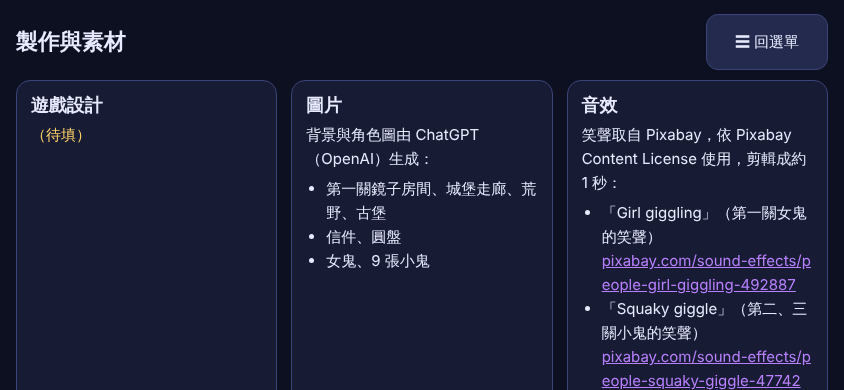
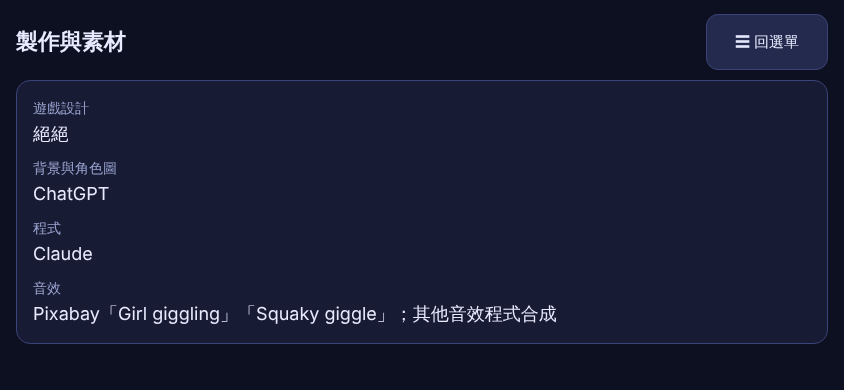
credits: user's final wording, no external links
Claude-Session: https://claude.ai/code/session_01HvGmyWa7LXvU1ABFVyqn8L

diff --git a/prototype/credits.html b/prototype/credits.html
@@ -10,10 +10,8 @@
 <meta name="apple-mobile-web-app-status-bar-style" content="black">
 <link rel="apple-touch-icon" href="assets/icon-180.png">
 <!--
-  製作與素材頁（2026-11-21）：感謝名單與素材出處。
-  - 圖片：使用者 2026-11-21 確認「背景角色通通是 GPT」。
-  - 音效：Pixabay 兩段笑聲（作者名這個環境連不到 pixabay.com 查不到，先只寫標題＋連結，不猜）。
-  - 遊戲設計署名：等使用者決定怎麼寫，先放「（待填）」。
+  製作與素材頁：文字照使用者 2026-11-21 定稿（字少、不放連結）。
+  Pixabay 兩段笑聲的原始網址記在 PROJECT.md，頁面上不放。
 -->
 <style>
   html, body { margin:0; min-height:100%; background:#0d1020; color:#e8ebff;
@@ -23,15 +21,9 @@
   h1 { font-size:22px; margin:0; flex:1; }
   .btn { display:inline-flex; align-items:center; justify-content:center; min-height:46px; min-width:88px; padding:4px 16px;
     font:inherit; font-size:15px; color:#e8ebff; background:#232a4d; border:1px solid #3b4478; border-radius:12px; text-decoration:none; cursor:pointer; }
-  .grid { display:grid; grid-template-columns:repeat(auto-fit, minmax(260px, 1fr)); gap:14px; }
-  section { background:#171b33; border:1px solid #3b4478; border-radius:14px; padding:12px 14px; }
-  h2 { margin:0 0 6px; font-size:18px; }
-  p, li { font-size:15px; line-height:1.6; }
-  p { margin:0 0 6px; }
-  ul { margin:0; padding-left:20px; }
-  .sub { color:#9aa3cf; font-size:13px; }
-  .todo { color:#ffd166; }
-  a.src { display:inline-flex; align-items:center; min-height:44px; color:#b980ff; word-break:break-all; }
+  .credits { margin:0; background:#171b33; border:1px solid #3b4478; border-radius:14px; padding:6px 16px; }
+  .credits dt { margin:12px 0 2px; font-size:14px; color:#9aa3cf; }
+  .credits dd { margin:0 0 10px; font-size:18px; line-height:1.5; }
 </style>
 </head>
 <body>
@@ -40,32 +32,12 @@
     <h1>製作與素材</h1>
     <a class="btn" id="menuBtn" href="index.html">☰ 回選單</a>
   </header>
-  <div class="grid">
-    <section id="design">
-      <h2>遊戲設計</h2>
-      <p class="todo" data-todo="credit">（待填）</p>
-    </section>
-    <section id="art">
-      <h2>圖片</h2>
-      <p>背景與角色圖由 ChatGPT（OpenAI）生成：</p>
-      <ul>
-        <li>第一關鏡子房間、城堡走廊、荒野、古堡</li>
-        <li>信件、圓盤</li>
-        <li>女鬼、9 張小鬼</li>
-      </ul>
-    </section>
-    <section id="sfx">
-      <h2>音效</h2>
-      <p>笑聲取自 Pixabay，依 Pixabay Content License 使用，剪輯成約 1 秒：</p>
-      <ul>
-        <li>「Girl giggling」（第一關女鬼的笑聲）<br>
-          <a class="src" href="https://pixabay.com/sound-effects/people-girl-giggling-492887/" target="_blank" rel="noopener">pixabay.com/sound-effects/people-girl-giggling-492887</a></li>
-        <li>「Squaky giggle」（第二、三關小鬼的笑聲）<br>
-          <a class="src" href="https://pixabay.com/sound-effects/people-squaky-giggle-47742/" target="_blank" rel="noopener">pixabay.com/sound-effects/people-squaky-giggle-47742</a></li>
-      </ul>
-      <p class="sub">其他音效（鏘、碎玻璃、夜裡的怪聲）由程式即時合成。</p>
-    </section>
-  </div>
+  <dl class="credits">
+    <dt>遊戲設計</dt><dd>絕絕</dd>
+    <dt>背景與角色圖</dt><dd>ChatGPT</dd>
+    <dt>程式</dt><dd>Claude</dd>
+    <dt>音效</dt><dd>Pixabay「Girl giggling」「Squaky giggle」；其他音效程式合成</dd>
+  </dl>
 </main>
 <script src="shared/landscape.js"></script>
 </body>

diff --git a/tests/e2e-menu.js b/tests/e2e-menu.js
@@ -130,14 +130,15 @@ const T = {
   ok(!!(await page.$('a#creditsLink[href="credits.html"]')), '選單最下面有「製作與素材」入口');
   await Promise.all([page.waitForURL(/credits\.html$/), page.tap('#creditsLink')]);
   const cr = await page.evaluate(() => ({
+    rows: [...document.querySelectorAll('.credits dt')].map((dt) => dt.textContent + '：' + dt.nextElementSibling.textContent),
+    links: [...document.querySelectorAll('main a')].map((a) => a.getAttribute('href')),
+    btn: (() => { const b = document.getElementById('menuBtn').getBoundingClientRect(); return Math.min(b.width, b.height); })(),
     text: document.body.textContent,
-    sizes: [...document.querySelectorAll('.btn, a.src')].map((e) => Math.min(e.getBoundingClientRect().width, e.getBoundingClientRect().height)),
-    back: (document.getElementById('menuBtn') || {}).getAttribute && document.getElementById('menuBtn').getAttribute('href'),
     noHScroll: document.documentElement.scrollWidth <= window.innerWidth,
   }));
-  ok(/ChatGPT（OpenAI）/.test(cr.text) && /Girl giggling/.test(cr.text) && /Squaky giggle/.test(cr.text) && /Pixabay Content License/.test(cr.text) && /程式即時合成/.test(cr.text), '製作與素材：圖片、音效出處都有寫');
-  ok(cr.back === 'index.html' && /☰ 回選單/.test(cr.text), '製作與素材：「☰ 回選單」連回選單', cr.back);
-  ok(cr.sizes.length >= 3 && cr.sizes.every((s) => s >= 44), '製作與素材：按鈕與連結 ≥ 44 px', cr.sizes);
+  ok(JSON.stringify(cr.rows) === JSON.stringify(['遊戲設計：絕絕', '背景與角色圖：ChatGPT', '程式：Claude', '音效：Pixabay「Girl giggling」「Squaky giggle」；其他音效程式合成']), '製作與素材：四行文字照定稿', cr.rows);
+  ok(JSON.stringify(cr.links) === '["index.html"]', '製作與素材：除了回選單沒有其他連結', cr.links);
+  ok(/☰ 回選單/.test(cr.text) && cr.btn >= 44, '製作與素材：「☰ 回選單」≥ 44 px', cr.btn);
   ok(cr.noHScroll, '製作與素材：橫向手機沒有橫向捲動');
   await page.screenshot({ path: path.join(SHOTS, 'credits.png') });
   await Promise.all([page.waitForURL(/prototype\/index\.html$/), page.tap('#menuBtn')]);

diff --git a/PROJECT.md b/PROJECT.md
@@ -132,7 +132,7 @@
 - **正式美術圖已換上（2026-11-19）**：原圖在 `docs/concepts/古堡外觀.png`、`信件.png`、`圓盤.png`、`雜魚00～08.png`（雜魚09 使用者說不用）。轉成手機用的 webp：`plane-mirror/assets/story-castle.webp`、`story-letter.webp`（信件圖＋圓盤合成，照劇本「圓盤壓在信件上面」）、`story-disc.webp`（對話框小圖）、`shared/art/minion-00～08.webp`（第一關、第二關過關時逃散的小鬼，取代 placeholder）。信上的三句字照舊用 HTML 寫在圖中的信紙上（`story-scene.js` 的 `letterOnArt`）。暫代圖程式保留在 `story-art.js`，圖載不到時才用。
 - **第二關「看凸透鏡」（使用者 2026-11-21）**：①拿掉底下「← 直接看」對照小鬼（鬼裸眼不可見；大小又透露距離），鏡框改成固定撐滿那一欄；②虛像不能標記時寫「成像太遠，無法標記。」（狀態列加「再移動看看。」）；③虛像離透鏡 < 60 cm 時提示「建議標記別處」但**仍可標記**，**只在看透鏡時出現**，看布幕不會；④實像題**維持允許**改看透鏡標記虛像（V1／V4 不變）；⑤虛像題 J、K、L **改短焦距定案**（J 110、K 120、L 170），使用者手機實測 OK；⑥「拉近看」（讓鬼塞滿鏡片）**先不做**；⑦舊的三題虛像題加回來當 **M、N、O**（f 200／220／210，第 4／5／7 格），虛像題共 6 題、全部 15 題；⑧「知道是虛像就猜焦點內的格子」**先不處理**；⑨「看透鏡」時鬼在焦點上或焦點外**照物理畫**：看到清楚、正立的像（像在無限遠或布幕後面），寫「成像太遠，無法標記。」，不再是一團淡光（只有實像題的像落在眼睛前後 25 cm 內才是一團光）。細節見文末「交接點（凸透鏡虛像太小，2026-11-21）」。
 - **第一關地磚貼圖已換上（2026-11-20）**：使用者給的石磚圖存成 `docs/concepts/地磚.png`，遊戲用 `plane-mirror/assets/floor-tile.webp`（512×512）。一格貼一張，用分塊仿射做透視貼圖；直接看、各面鏡子、鏡中鏡各算一次後快取（`app.js` 的 `floorLayer`）。隔一格壓暗（西洋棋盤，鏡中好數格），格線改成磚邊的銅色、細一點。圖載不到就退回程式畫的地板。**還沒在實體手機上看效能**（第一次畫面出現前要多算一下貼圖）。
-- **製作與素材頁（2026-11-21）**：`prototype/credits.html`，選單最下面有入口。背景與角色圖（鏡子房間、走廊、荒野、古堡、信件、圓盤、女鬼、9 張小鬼）**全部署名 ChatGPT（OpenAI）生成**（使用者 2026-11-21：「背景角色通通是 GPT」）；兩段笑聲寫 Pixabay 標題＋連結＋Pixabay Content License；其他音效寫「程式即時合成」。遊戲設計署名見 PENDING 28。細節見交接點（製作與素材頁）。
+- **製作與素材頁（2026-11-21，使用者定稿）**：`prototype/credits.html`，選單最下面有入口。字少、**不放外部連結**，四行：遊戲設計：絕絕／背景與角色圖：ChatGPT／程式：Claude／音效：Pixabay「Girl giggling」「Squaky giggle」；其他音效程式合成。（兩段笑聲出處只記在這裡：pixabay.com/sound-effects/people-girl-giggling-492887、people-squaky-giggle-47742。）
 
 ## DO NOT RE-DERIVE
 
@@ -211,7 +211,7 @@
 13. ~~第一關等使用者試玩後決定~~（2026-11-17 使用者都已回覆，見 CONFIRMED；以下保留原題目）（`docs/prototype-findings-mirror.md`）：選格黃框與法陣不出現在鏡子裡可以嗎（ISSUE 5）；鬼的像在正面鏡裡沒有左右相反要不要調整（ISSUE 6）；鏡中要不要畫玩家自己的剪影（ISSUE 7）；鏡中鏡的第二個像要不要留（ISSUE 8）；台詞（第 13 點）；背景圖要不要重畫成落地鏡、玩家站近一點（ISSUE 1～3）。
 
 ---
-28. **製作與素材頁的署名**（2026-11-21）：遊戲設計要寫誰的名字、要不要寫學校、要不要寫「與 Claude（Anthropic）協作開發程式」？目前頁面寫「（待填）」。另外 Pixabay 兩段笑聲的作者名還沒查（雲端環境連不到 pixabay.com），使用者若想加作者名請告知。
+28. ~~製作與素材頁的署名~~ 2026-11-21 使用者定稿（見 CONFIRMED）。Pixabay 作者名：使用者打算用本機工作階段查，查到再決定要不要加。
 
 ## NOW — Sprint 01
 
@@ -506,9 +506,9 @@
 ### 交接點（製作與素材頁，2026-11-21）
 
 - **分支**：從 `claude/amazing-lamport-4kx8tr`（cbf06a7）開出 `claude/credits-page-8743`，還沒併進任何分支。commit hash 見使用者回覆／`git log`。
-- **改了哪些檔案**：新增 `prototype/credits.html`；`prototype/index.html`（最下面加「製作與素材」入口 `#creditsLink`）；`prototype/game.html`（`OK` 正則加 `credits.html`，重新整理會留在這頁）；`tests/e2e-menu.js`（入口、連得到、出處文字、按鈕 ≥ 44 px、回選單、直拿不出現轉向提示）；`tests/e2e-shell.js`（`#credits.html`）；截圖 `docs/screenshots/credits.png`。
-- **待使用者回答**：PENDING 28（署名）。回覆後把 `credits.html` 裡 `data-todo="credit"` 那一行換掉。
-- **還沒在實體手機驗證**：頁面外觀、Pixabay 連結在框裡開新分頁。
+- **改了哪些檔案**：新增 `prototype/credits.html`；`prototype/index.html`（最下面加「製作與素材」入口 `#creditsLink`）；`prototype/game.html`（`OK` 正則加 `credits.html`，重新整理會留在這頁）；`tests/e2e-menu.js`（入口、連得到、四行文字、沒有外部連結、按鈕 ≥ 44 px、回選單、直拿不出現轉向提示）；`tests/e2e-shell.js`（`#credits.html`）；截圖 `docs/screenshots/credits.png`。
+- 署名已照使用者定稿改好（CONFIRMED），頁面沒有外部連結。
+- **還沒在實體手機驗證**：頁面外觀。
 - **檔案分工**：這個工作階段已收工，不佔檔案。
 
 ### 交接點（凸透鏡虛像太小，2026-11-21）
